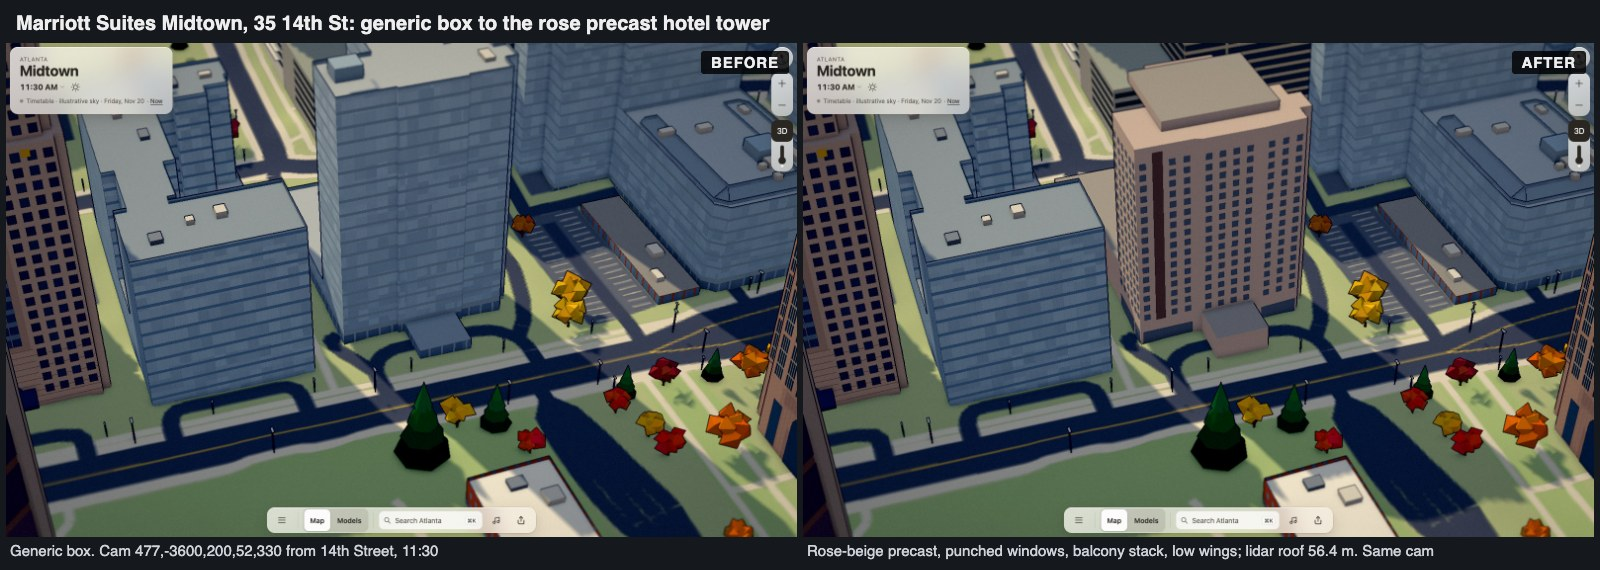
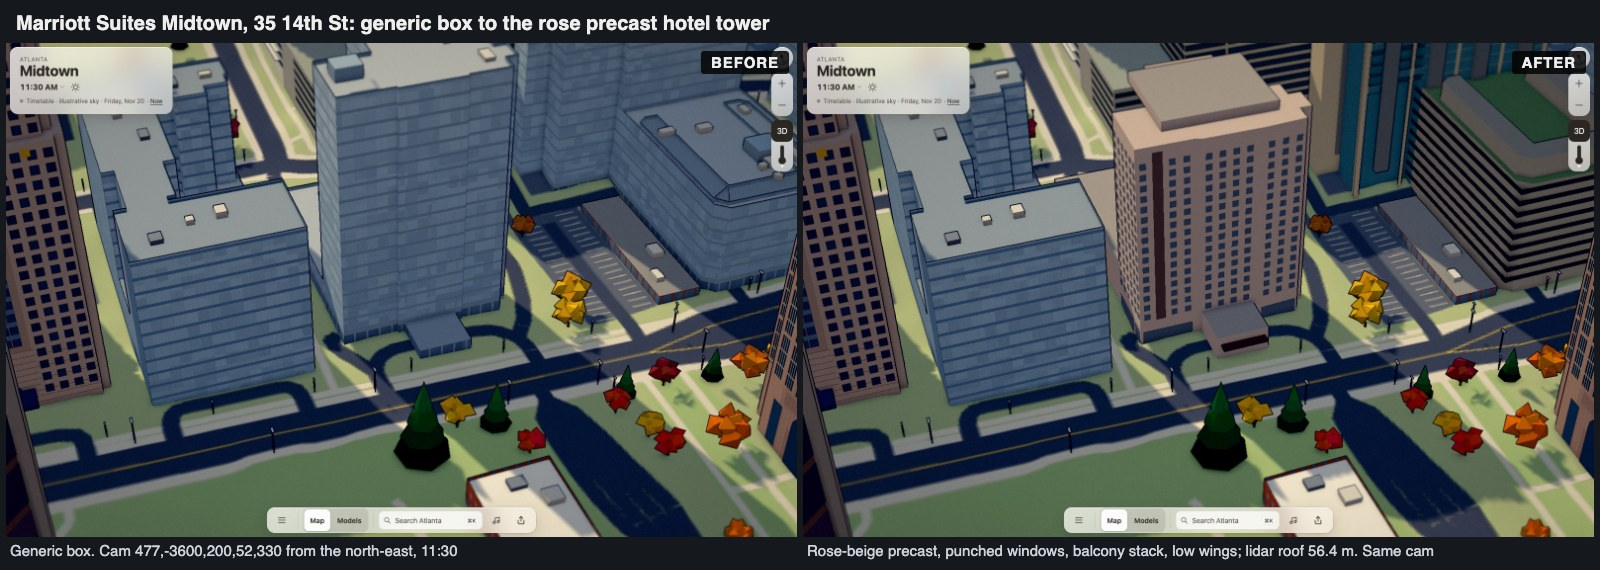
Refresh Marriott Suites captures with the 14th Street canopy and add the four-side sheet

Changed region(s): [[0.8125, 0.0596, 1.0, 0.507], [0.1875, 0.9544, 0.2812, 0.9842], [0.75, 0.5965, 0.7812, 0.6263]]

diff --git a/docs/log/ui/marriott-suites/README.md b/docs/log/ui/marriott-suites/README.md
@@ -21,6 +21,7 @@ The model is vertex colours on `landmarkShell` (batchable), 1,479 triangles on b
 |---|---|---|---|
 | From the north-east, looking south-west | `477,-3600,200,52,330` | 11:30 (before and after), 23:30 | [Before/after](compare.jpg), [day and night](daynight.jpg) |
 | Start | `480,-3594,32,60,190` | 11:30 and 23:30 | [Day and night](daynight.jpg) |
-| Entry | `477,-3622,180,35,90` with `&dev&mindist=20` | 11:30 | [Close](close.jpg) |
+| 14th Street entry | `476,-3615,180,45,110` with `&dev&mindist=20` | 11:30 | [Close](close.jpg) |
+| Four sides | `477,-3600,{180,270,0},55,400` and `90,30,400` | 11:30 | [Four sides](four-sides.jpg) |
 
 Use `/?view=city&cam=<camera>&t=<ISO timestamp>`.
